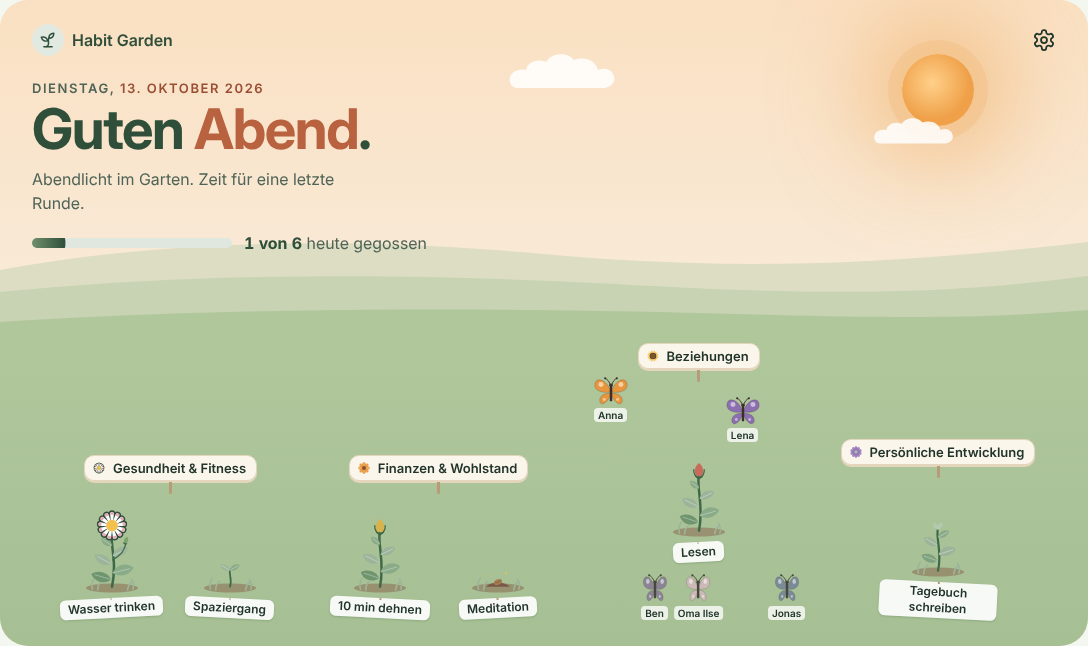
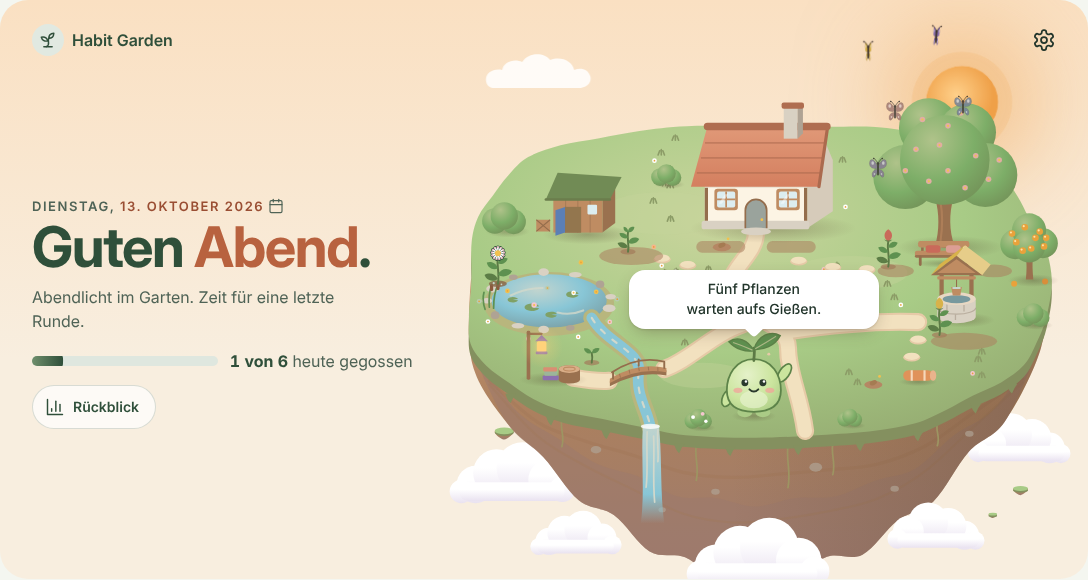
Garten-Insel Teil 1: Insel mit Keimi in HEUTE
- Vektor-Insel statt flacher Wiese: ein Ort je Lebensbereich (Haus, Teich,
  Bank unter dem Baum, Werkstatt, Laterne, Picknick, Brunnen), der mit der
  Pflege aufblüht; Pflanzen der Routinen daneben, fehlende Bereiche als
  Lichtung; Tag, Abend, Nacht, Dunkelmodus und Landschaft aus
- Orte antippbar: Sheet mit den Routinen des Bereichs zum Gießen
- Keimi mit kurzem, handlungsnahem Satz; Tipp blendet ihn für den Tag aus
- Schmetterlinge (Personen) um den Baum mit der Bank
- README-Text und -Bild, Abnahmeprotokoll I.1–I.4

Claude-Session: https://claude.ai/code/session_01AGRbJ4wazitSC9Dqb7GW9X

diff --git a/public/styles/screens.css b/public/styles/screens.css
@@ -522,7 +522,7 @@
    (--x/--y/--w/--h set by screens/garden.ts). Colour tokens --isl-* in tokens.css (light and dark).
    Phone: the island fills the width under the hero text; ≥ 900 px: right of the greeting. */
 /* The island lies above the hero text (its sky overlaps the text's last row); only its controls take pointers. */
-.ol-isl { position: relative; z-index: 2; margin: -44px -22px -6px; pointer-events: none; }
+.ol-isl { position: relative; z-index: 2; margin: -44px calc(var(--space-4) * -1) -6px; pointer-events: none; }
 .ol-isl__place, .ol-isl__flyer, .ol-isl__bubble { pointer-events: auto; }
 .ol-isl__stage { position: relative; aspect-ratio: 600 / 560; }
 .ol-isl__art { position: absolute; inset: 0; }

diff --git a/src/components/island.ts b/src/components/island.ts
@@ -664,11 +664,11 @@ export const HIT_BOXES: Readonly<Record<PlaceKey | 'extra', readonly [number, nu
   home: [236, 92, 140, 146],
   work: [88, 152, 134, 86],
   bonds: [418, 92, 128, 162],
-  health: [34, 238, 142, 74],
-  wealth: [466, 254, 118, 80],
-  leisure: [394, 330, 122, 76],
-  growth: [50, 312, 112, 78],
-  extra: [202, 326, 76, 76],
+  health: [34, 240, 142, 82],
+  wealth: [466, 256, 118, 84],
+  leisure: [394, 342, 122, 84],
+  growth: [50, 324, 112, 84],
+  extra: [196, 326, 84, 84],
 };
 
 /**

diff --git a/README.md b/README.md
@@ -4,7 +4,7 @@ Habit Garden ist ein Garten für deinen Alltag. Jede Gewohnheit, die du pflegen 
 
 **Ausprobieren:** [daimpad.github.io/habit-garden](https://daimpad.github.io/habit-garden/). Unter Einstellungen › Info kannst du Beispieldaten laden und den Garten gleich gefüllt sehen.
 
-![Der Garten am Abend: Beete für jeden Lebensbereich, Pflanzen in verschiedenen Stufen und Schmetterlinge über dem Beet „Beziehungen“](docs/bilder/garten.png)
+![Die Garten-Insel am Abend: Haus, Teich, Werkstatt, Brunnen und ein großer Baum mit Bank, dazwischen Pflanzen in verschiedenen Stufen, Schmetterlinge und der kleine Begleiter Keimi mit einer Sprechblase](docs/bilder/garten.png)
 
 ## Die Idee
 
@@ -14,7 +14,7 @@ Du ordnest dein Leben in Bereiche wie Gesundheit, Beziehungen oder Beruf. Jeder 
 
 ## Was Habit Garden heute kann
 
-- **Der Garten auf einen Blick.** Oben auf der Startseite stehen alle Bereiche als Beete, jede Gewohnheit als Pflanze in ihrem aktuellen Wachstum. Der Himmel folgt der Tageszeit, und eine Begrüßung zeigt, wie viel du heute schon gegossen hast.
+- **Der Garten auf einen Blick.** Oben auf der Startseite schwebt deine Garten-Insel. Jeder Lebensbereich hat dort einen eigenen Ort – das Haus, den Teich, die Bank unter dem Baum, die Werkstatt und weitere –, und jede Gewohnheit wächst daneben als Pflanze. Je besser ein Bereich gepflegt ist, desto mehr blüht sein Ort auf. Ein Tipp auf einen Ort zeigt seine Routinen zum Gießen. Der kleine Keimi sagt dir, was als Nächstes ansteht, und der Himmel folgt der Tageszeit.
 - **Gewohnheiten pflegen.** Jede Gewohnheit hat eine eigene Karte mit ihrer Pflanze, der Anzahl der Tage in Folge und einem Überblick über die letzten zwölf Wochen. Ein Tipp auf „Heute gießen“ genügt; die Karte zeigt auch, wie lange es bis zur nächsten Stufe dauert. Gewohnheiten können täglich, an bestimmten Wochentagen oder einige Male pro Woche stattfinden.
 - **In Kontakt bleiben.** Du trägst Menschen ein, die dir wichtig sind, und legst fest, wie oft du dich melden möchtest. „Melde dich bei“ erinnert dich an die, bei denen es Zeit wird. Wer im Rhythmus ist, fliegt als bunter Schmetterling; wer länger nichts von dir gehört hat, ruht blass im Gras.
 - **Fokus für den Tag.** Du wählst bis zu drei Aufgaben, die heute wirklich zählen. Fällige Aufgaben erscheinen darunter, auf Wunsch mit einer Erinnerung, solange die Seite geöffnet ist.
